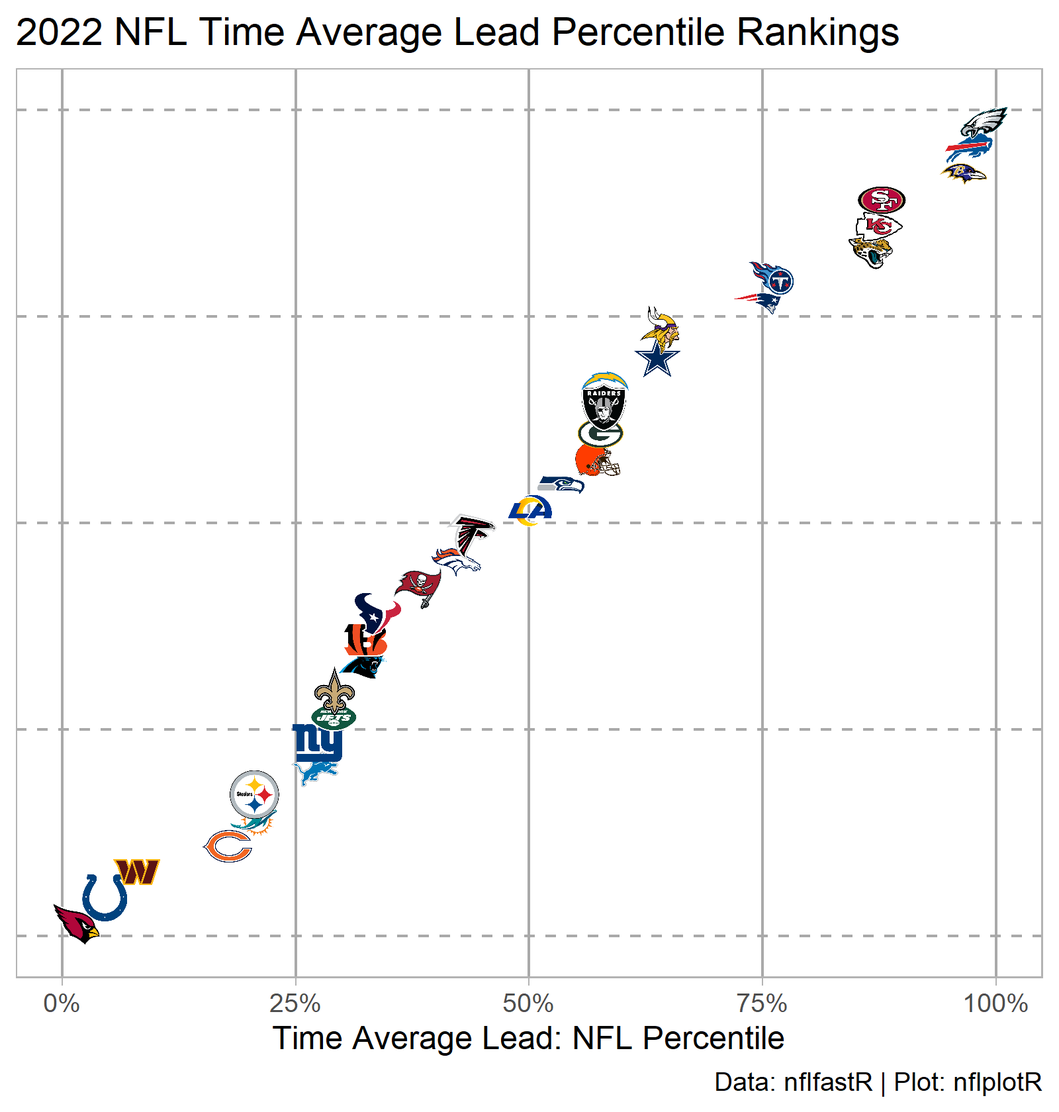
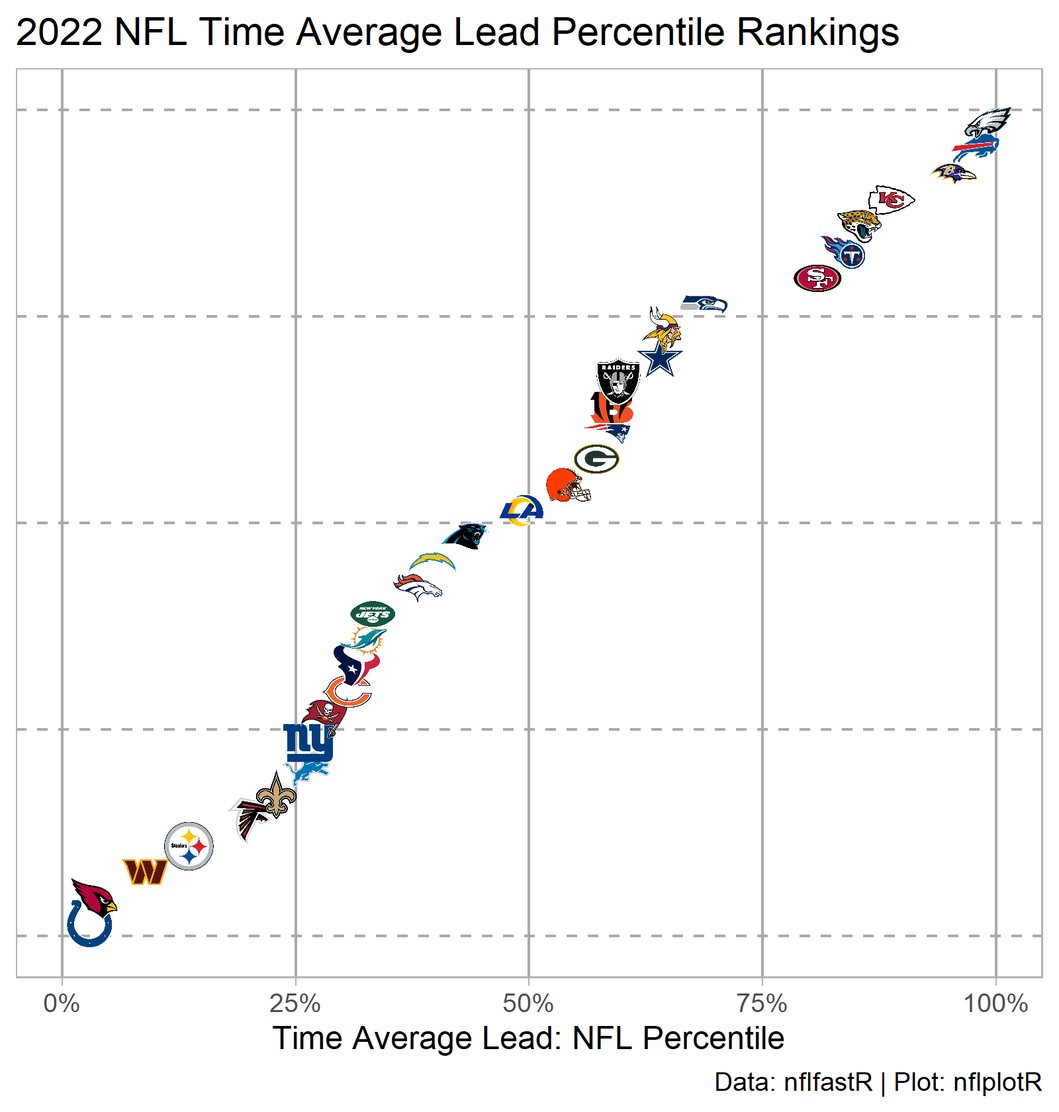
Week 7

Changed region(s): [[0.0312, 0.2476, 0.6875, 0.8667], [0.7188, 0.0929, 0.9688, 0.2786]]

diff --git a/docs/2022-nfl-team-metrics.html b/docs/2022-nfl-team-metrics.html
@@ -94,8 +94,8 @@ code span.wa { color: #5e5e5e; font-style: italic; } /* Warning */
 
 
   <!--  https://schema.org/Article -->
-  <meta property="article:published" itemprop="datePublished" content="2022-10-18"/>
-  <meta property="article:created" itemprop="dateCreated" content="2022-10-18"/>
+  <meta property="article:published" itemprop="datePublished" content="2022-10-25"/>
+  <meta property="article:created" itemprop="dateCreated" content="2022-10-25"/>
   <meta name="article:author" content="Casey Caprini"/>
 
   <!--  https://developers.facebook.com/docs/sharing/webmasters#markup -->
@@ -114,7 +114,7 @@ code span.wa { color: #5e5e5e; font-style: italic; } /* Warning */
   <!--radix_placeholder_rmarkdown_metadata-->
 
   <script type="text/json" id="radix-rmarkdown-metadata">
-  {"type":"list","attributes":{"names":{"type":"character","attributes":{},"value":["title","description","author","date","output"]}},"value":[{"type":"character","attributes":{},"value":["2022 NFL Team Metrics"]},{"type":"character","attributes":{},"value":["Team time average metrics for the 2021 regular season.\n"]},{"type":"list","attributes":{},"value":[{"type":"list","attributes":{"names":{"type":"character","attributes":{},"value":["name"]}},"value":[{"type":"character","attributes":{},"value":["Casey Caprini"]}]}]},{"type":"character","attributes":{},"value":["10-18-2022"]},{"type":"list","attributes":{"names":{"type":"character","attributes":{},"value":["distill::distill_article"]}},"value":[{"type":"list","attributes":{"names":{"type":"character","attributes":{},"value":["self_contained","code_folding"]}},"value":[{"type":"logical","attributes":{},"value":[false]},{"type":"logical","attributes":{},"value":[true]}]}]}]}
+  {"type":"list","attributes":{"names":{"type":"character","attributes":{},"value":["title","description","author","date","output"]}},"value":[{"type":"character","attributes":{},"value":["2022 NFL Team Metrics"]},{"type":"character","attributes":{},"value":["Team time average metrics for the 2021 regular season.\n"]},{"type":"list","attributes":{},"value":[{"type":"list","attributes":{"names":{"type":"character","attributes":{},"value":["name"]}},"value":[{"type":"character","attributes":{},"value":["Casey Caprini"]}]}]},{"type":"character","attributes":{},"value":["10-25-2022"]},{"type":"list","attributes":{"names":{"type":"character","attributes":{},"value":["distill::distill_article"]}},"value":[{"type":"list","attributes":{"names":{"type":"character","attributes":{},"value":["self_contained","code_folding"]}},"value":[{"type":"logical","attributes":{},"value":[false]},{"type":"logical","attributes":{},"value":[true]}]}]}]}
   </script>
   <!--/radix_placeholder_rmarkdown_metadata-->
   <!--radix_placeholder_navigation_in_header-->
@@ -2408,7 +2408,7 @@ code span.wa { color: #5e5e5e; font-style: italic; } /* Warning */
 <!--radix_placeholder_front_matter-->
 
 <script id="distill-front-matter" type="text/json">
-{"title":"2022 NFL Team Metrics","description":"Team time average metrics for the 2021 regular season.","authors":[{"author":"Casey Caprini","authorURL":"#","affiliation":"&nbsp;","affiliationURL":"#","orcidID":""}],"publishedDate":"2022-10-18T00:00:00.000-04:00","citationText":"Caprini, 2022"}
+{"title":"2022 NFL Team Metrics","description":"Team time average metrics for the 2021 regular season.","authors":[{"author":"Casey Caprini","authorURL":"#","affiliation":"&nbsp;","affiliationURL":"#","orcidID":""}],"publishedDate":"2022-10-25T00:00:00.000-04:00","citationText":"Caprini, 2022"}
 </script>
 
 <!--/radix_placeholder_front_matter-->
@@ -2441,7 +2441,7 @@ code span.wa { color: #5e5e5e; font-style: italic; } /* Warning */
 <div class="d-byline">
   Casey Caprini  
   
-<br/>10-18-2022
+<br/>10-25-2022
 </div>
 
 <div class="d-article">
@@ -2753,8 +2753,8 @@ Show code
 <span>  <span class='op'>)</span></span></code></pre>
 </div>
 </details>
-<div id="htmlwidget-b88a31df3ebafcfb2753" class="reactable html-widget" style="width:auto;height:675px;"></div>
-<script type="application/json" data-for="htmlwidget-b88a31df3ebafcfb2753">{"x":{"tag":{"name":"Reactable","attribs":{"data":{"team_logo_espn":["https://a.espncdn.com/i/teamlogos/nfl/500/ari.png","https://a.espncdn.com/i/teamlogos/nfl/500/atl.png","https://a.espncdn.com/i/teamlogos/nfl/500/bal.png","https://a.espncdn.com/i/teamlogos/nfl/500/buf.png","https://a.espncdn.com/i/teamlogos/nfl/500-dark/car.png","https://a.espncdn.com/i/teamlogos/nfl/500/chi.png","https://a.espncdn.com/i/teamlogos/nfl/500/cin.png","https://a.espncdn.com/i/teamlogos/nfl/500/cle.png","https://a.espncdn.com/i/teamlogos/nfl/500/dal.png","https://a.espncdn.com/i/teamlogos/nfl/500/den.png","https://a.espncdn.com/i/teamlogos/nfl/500/det.png","https://a.espncdn.com/i/teamlogos/nfl/500/gb.png","https://a.espncdn.com/i/teamlogos/nfl/500/hou.png","https://a.espncdn.com/i/teamlogos/nfl/500/ind.png","https://a.espncdn.com/i/teamlogos/nfl/500/jax.png","https://a.espncdn.com/i/teamlogos/nfl/500/kc.png","https://a.espncdn.com/i/teamlogos/nfl/500/lar.png","https://a.espncdn.com/i/teamlogos/nfl/500/lac.png","https://a.espncdn.com/i/teamlogos/nfl/500/lv.png","https://a.espncdn.com/i/teamlogos/nfl/500/mia.png","https://a.espncdn.com/i/teamlogos/nfl/500/min.png","https://a.espncdn.com/i/teamlogos/nfl/500/ne.png","https://a.espncdn.com/i/teamlogos/nfl/500/no.png","https://a.espncdn.com/i/teamlogos/nfl/500/nyg.png","https://a.espncdn.com/i/teamlogos/nfl/500/nyj.png","https://a.espncdn.com/i/teamlogos/nfl/500/phi.png","https://a.espncdn.com/i/teamlogos/nfl/500/pit.png","https://a.espncdn.com/i/teamlogos/nfl/500/sea.png","https://a.espncdn.com/i/teamlogos/nfl/500/sf.png","https://a.espncdn.com/i/teamlogos/nfl/500/tb.png","https://a.espncdn.com/i/teamlogos/nfl/500/ten.png","https://a.espncdn.com/i/teamlogos/nfl/500/wsh.png"],"team":["ARI","ATL","BAL","BUF","CAR","CHI","CIN","CLE","DAL","DEN","DET","GB","HOU","IND","JAX","KC","LA","LAC","LV","MIA","MIN","NE","NO","NYG","NYJ","PHI","PIT","SEA","SF","TB","TEN","WAS"],"time_avg_lead":[-7.49666666666667,-0.534953703703704,6.09833333333333,6.37462962962963,-1.5799537037037,-3.16944444444444,-1.55953703703704,0.622546296296296,1.18481481481481,-0.679953703703704,-2.09066666666667,0.644583333333333,-1.43683333333333,-5.76740740740741,3.74231481481481,3.89912037037037,-0.00310185185185189,0.689768518518519,0.674444444444444,-2.80939814814815,1.20680555555556,2.22083333333333,-1.87736111111111,-2.06162037037037,-1.88587962962963,7.56726851851852,-2.80476851851852,0.281759259259259,3.93962962962963,-1.03976851851852,2.36983333333333,-4.79990740740741],"time_avg_wins":[0.983425660274824,3.07805661588675,5.01019460738457,4.08287365638769,2.42329244030174,1.897447341868,2.29376023307952,3.35068657202917,3.47336424535358,2.72204148097536,2.04513063989949,3.30968645096446,2.29793727017481,1.2751656707469,3.83891117154527,3.63150244955651,2.81292545219117,3.15282217031577,2.65660111352969,2.00165325189352,3.55654145587813,3.51212749244543,2.45227050877059,2.25746834967722,2.6239476090353,5.08525532886004,2.67035418729405,3.27143054498497,4.20241896488932,2.74978093984036,3.39936356287141,1.88156256109439],"off_yards_per_snap":[4.49555555555556,5.33064516129032,5.74798927613941,6.5121359223301,4.55357142857143,5.01146131805158,4.87410926365796,5.37122969837587,4.77513227513228,4.93120393120393,5.8757225433526,5.28855721393035,4.7515923566879,4.63288288288288,5.41,5.58292682926829,4.53196930946292,5.18036529680365,5.45882352941176,5.73711340206186,5.2531328320802,5.5511811023622,5.50122249388753,4.75628140703518,4.81294964028777,5.27088036117382,4.45714285714286,5.78532608695652,5.22857142857143,4.78398058252427,4.47176079734219,4.56440281030445],"off_adj_yards_per_snap":[5.03641442288812,5.17415687439272,5.23275709119525,5.33792016008724,5.07053709679297,5.12496068893275,5.101224015627,5.1759975995721,5.10146708136685,5.10859809240911,5.23168665402623,5.17048327051588,5.10332443803178,5.06134482187729,5.17840268700078,5.22288592759745,5.07662579775351,5.15282831577645,5.1833963110451,5.23221104608063,5.15159250742379,5.1858527142864,5.19722718912674,5.09221549883066,5.08328735036059,5.15858999686971,5.05843615613662,5.23155240537492,5.15562219443854,5.0878519648717,5.06853238943821,5.05612898629757],"def_yards_per_snap":[5.33246073298429,5.57635467980296,5.41707317073171,4.22739018087855,4.8445475638051,5.09452736318408,4.98024691358025,5.60526315789474,4.16587677725119,4.1627358490566,6.07670454545455,5.00862068965517,5.53439153439153,5.00757575757576,5.00738916256158,5.34398034398034,5.03399433427762,5.59090909090909,5.14583333333333,5.88654353562005,5.49376558603491,5.25322997416021,5.47792207792208,5.25196850393701,4.95226130653266,4.56488549618321,5.26576576576577,5.93867924528302,4.0234375,4.27053140096618,5.76488095238095,5.52487562189055],"def_adj_yards_per_snap":[5.19367104605175,5.27581284131356,5.22194357262035,4.86707835695216,5.05336486573085,5.13450553144424,5.09056710633284,5.28778596164591,4.84616336020412,4.82847919111673,5.40404195686946,5.11233078967631,5.26656122797394,5.10199397970672,5.11513484293404,5.20564296512075,5.11317884804525,5.27016162364199,5.15187459379761,5.34934747557627,5.2377818036964,5.16494360176116,5.24662508012287,5.18082059375922,5.07979780537171,4.97396044796619,5.18205808646525,5.3973786260501,4.81343913023311,4.86359952440717,5.31179867319931,5.26226823663734],"yards_per_snap_diff":[-0.836905177428737,-0.245709518512633,0.330916105407703,2.28474574145154,-0.290976135233675,-0.0830660451325036,-0.10613764992229,-0.234033459518867,0.60925549788109,0.768468082147327,-0.200982002101945,0.279936524275175,-0.782799177703636,-0.374692874692875,0.402610837438424,0.238946485287949,-0.502025024814705,-0.410543794105438,0.312990196078432,-0.149430133558197,-0.240632753954713,0.297951128201998,0.0233004159654522,-0.495687096901833,-0.139311666244893,0.705994864990609,-0.808622908622908,-0.153353158326498,1.20513392857143,0.513449181558088,-1.29312015503876,-0.960472811586098],"adj_yards_per_snap_diff":[-0.157256623163632,-0.101655966920837,0.0108135185749054,0.470841803135079,0.0171722310621147,-0.00954484251149079,0.0106569092941653,-0.111788362073806,0.255303721162726,0.280118901292374,-0.172355302843229,0.0581524808395653,-0.163236789942164,-0.0406491578294359,0.063267844066746,0.0172429624767041,-0.0365530502917366,-0.117333307865534,0.0315217172474922,-0.117136429495648,-0.0861892962726163,0.020909112525235,-0.0493978909961275,-0.0886050949285657,0.00348954498888343,0.184629548903524,-0.123621930328631,-0.165826220675178,0.342183064205432,0.22425244046453,-0.243266283761101,-0.206139250339771]},"columns":[{"accessor":"team_logo_espn","name":" ","type":"character","format":{"cell":{"digits":1},"aggregated":{"digits":1}},"align":"center","sortable":false,"cell":[{"name":"Fragment","attribs":[],"children":[{"name":"div","attribs":{"style":{"display":"flex","justifyContent":"center"}},"children":[{"name":"img","attribs":{"src":"https://a.espncdn.com/i/teamlogos/nfl/500/ari.png","align":"center","height":24,"width":24},"children":[]}]}]},{"name":"Fragment","attribs":[],"children":[{"name":"div","attribs":{"style":{"display":"flex","justifyContent":"center"}},"children":[{"name":"img","attribs":{"src":"https://a.espncdn.com/i/teamlogos/nfl/500/atl.png","align":"center","height":24,"width":24},"children":[]}]}]},{"name":"Fragment","attribs":[],"children":[{"name":"div","attribs":{"style":{"display":"flex","justifyContent":"center"}},"children":[{"name":"img","attribs":{"src":"https://a.espncdn.com/i/teamlogos/nfl/500/bal.png","align":"center","height":24,"width":24},"children":[]}]}]},{"name":"Fragment","attribs":[],"children":[{"name":"div","attribs":{"style":{"display":"flex","justifyContent":"center"}},"children":[{"name":"img","attribs":{"src":"https://a.espncdn.com/i/teamlogos/nfl/500/buf.png","align":"center","height":24,"width":24},"children":[]}]}]},{"name":"Fragment","attribs":[],"children":[{"name":"div","attribs":{"style":{"display":"flex","justifyContent":"center"}},"children":[{"name":"img","attribs":{"src":"https://a.espncdn.com/i/teamlogos/nfl/500-dark/car.png","align":"center","height":24,"width":24},"children":[]}]}]},{"name":"Fragment","attribs":[],"children":[{"name":"div","attribs":{"style":{"display":"flex","justifyContent":"center"}},"children":[{"name":"img","attribs":{"src":"https://a.espncdn.com/i/teamlogos/nfl/500/chi.png","align":"center","height":24,"width":24},"children":[]}]}]},{"name":"Fragment","attribs":[],"children":[{"name":"div","attribs":{"style":{"display":"flex","justifyContent":"center"}},"children":[{"name":"img","attribs":{"src":"https://a.espncdn.com/i/teamlogos/nfl/500/cin.png","align":"center","height":24,"width":24},"children":[]}]}]},{"name":"Fragment","attribs":[],"children":[{"name":"div","attribs":{"style":{"display":"flex","justifyContent":"center"}},"children":[{"name":"img","attribs":{"src":"https://a.espncdn.com/i/teamlogos/nfl/500/cle.png","align":"center","height":24,"width":24},"children":[]}]}]},{"name":"Fragment","attribs":[],"children":[{"name":"div","attribs":{"style":{"display":"flex","justifyContent":"center"}},"children":[{"name":"img","attribs":{"src":"https://a.espncdn.com/i/teamlogos/nfl/500/dal.png","align":"center","height":24,"width":24},"children":[]}]}]},{"name":"Fragment","attribs":[],"children":[{"name":"div","attribs":{"style":{"display":"flex","justifyContent":"center"}},"children":[{"name":"img","attribs":{"src":"https://a.espncdn.com/i/teamlogos/nfl/500/den.png","align":"center","height":24,"width":24},"children":[]}]}]},{"name":"Fragment","attribs":[],"children":[{"name":"div","attribs":{"style":{"display":"flex","justifyContent":"center"}},"children":[{"name":"img","attribs":{"src":"https://a.espncdn.com/i/teamlogos/nfl/500/det.png","align":"center","height":24,"width":24},"children":[]}]}]},{"name":"Fragment","attribs":[],"children":[{"name":"div","attribs":{"style":{"display":"flex","justifyContent":"center"}},"children":[{"name":"img","attribs":{"src":"https://a.espncdn.com/i/teamlogos/nfl/500/gb.png","align":"center","height":24,"width":24},"children":[]}]}]},{"name":"Fragment","attribs":[],"children":[{"name":"div","attribs":{"style":{"display":"flex","justifyContent":"center"}},"children":[{"name":"img","attribs":{"src":"https://a.espncdn.com/i/teamlogos/nfl/500/hou.png","align":"center","height":24,"width":24},"children":[]}]}]},{"name":"Fragment","attribs":[],"children":[{"name":"div","attribs":{"style":{"display":"flex","justifyContent":"center"}},"children":[{"name":"img","attribs":{"src":"https://a.espncdn.com/i/teamlogos/nfl/500/ind.png","align":"center","height":24,"width":24},"children":[]}]}]},{"name":"Fragment","attribs":[],"children":[{"name":"div","attribs":{"style":{"display":"flex","justifyContent":"center"}},"children":[{"name":"img","attribs":{"src":"https://a.espncdn.com/i/teamlogos/nfl/500/jax.png","align":"center","height":24,"width":24},"children":[]}]}]},{"name":"Fragment","attribs":[],"children":[{"name":"div","attribs":{"style":{"display":"flex","justifyContent":"center"}},"children":[{"name":"img","attribs":{"src":"https://a.espncdn.com/i/teamlogos/nfl/500/kc.png","align":"center","height":24,"width":24},"children":[]}]}]},{"name":"Fragment","attribs":[],"children":[{"name":"div","attribs":{"style":{"display":"flex","justifyContent":"center"}},"children":[{"name":"img","attribs":{"src":"https://a.espncdn.com/i/teamlogos/nfl/500/lar.png","align":"center","height":24,"width":24},"children":[]}]}]},{"name":"Fragment","attribs":[],"children":[{"name":"div","attribs":{"style":{"display":"flex","justifyContent":"center"}},"children":[{"name":"img","attribs":{"src":"https://a.espncdn.com/i/teamlogos/nfl/500/lac.png","align":"center","height":24,"width":24},"children":[]}]}]},{"name":"Fragment","attribs":[],"children":[{"name":"div","attribs":{"style":{"display":"flex","justifyContent":"center"}},"children":[{"name":"img","attribs":{"src":"https://a.espncdn.com/i/teamlogos/nfl/500/lv.png","align":"center","height":24,"width":24},"children":[]}]}]},{"name":"Fragment","attribs":[],"children":[{"name":"div","attribs":{"style":{"display":"flex","justifyContent":"center"}},"children":[{"name":"img","attribs":{"src":"https://a.espncdn.com/i/teamlogos/nfl/500/mia.png","align":"center","height":24,"width":24},"children":[]}]}]},{"name":"Fragment","attribs":[],"children":[{"name":"div","attribs":{"style":{"display":"flex","justifyContent":"center"}},"children":[{"name":"img","attribs":{"src":"https://a.espncdn.com/i/teamlogos/nfl/500/min.png","align":"center","height":24,"width":24},"children":[]}]}]},{"name":"Fragment","attribs":[],"children":[{"name":"div","attribs":{"style":{"display":"flex","justifyContent":"center"}},"children":[{"name":"img","attribs":{"src":"https://a.espncdn.com/i/teamlogos/nfl/500/ne.png","align":"center","height":24,"width":24},"children":[]}]}]},{"name":"Fragment","attribs":[],"children":[{"name":"div","attribs":{"style":{"display":"flex","justifyContent":"center"}},"children":[{"name":"img","attribs":{"src":"https://a.espncdn.com/i/teamlogos/nfl/500/no.png","align":"center","height":24,"width":24},"children":[]}]}]},{"name":"Fragment","attribs":[],"children":[{"name":"div","attribs":{"style":{"display":"flex","justifyContent":"center"}},"children":[{"name":"img","attribs":{"src":"https://a.espncdn.com/i/teamlogos/nfl/500/nyg.png","align":"center","height":24,"width":24},"children":[]}]}]},{"name":"Fragment","attribs":[],"children":[{"name":"div","attribs":{"style":{"display":"flex","justifyContent":"center"}},"children":[{"name":"img","attribs":{"src":"https://a.espncdn.com/i/teamlogos/nfl/500/nyj.png","align":"center","height":24,"width":24},"children":[]}]}]},{"name":"Fragment","attribs":[],"children":[{"name":"div","attribs":{"style":{"display":"flex","justifyContent":"center"}},"children":[{"name":"img","attribs":{"src":"https://a.espncdn.com/i/teamlogos/nfl/500/phi.png","align":"center","height":24,"width":24},"children":[]}]}]},{"name":"Fragment","attribs":[],"children":[{"name":"div","attribs":{"style":{"display":"flex","justifyContent":"center"}},"children":[{"name":"img","attribs":{"src":"https://a.espncdn.com/i/teamlogos/nfl/500/pit.png","align":"center","height":24,"width":24},"children":[]}]}]},{"name":"Fragment","attribs":[],"children":[{"name":"div","attribs":{"style":{"display":"flex","justifyContent":"center"}},"children":[{"name":"img","attribs":{"src":"https://a.espncdn.com/i/teamlogos/nfl/500/sea.png","align":"center","height":24,"width":24},"children":[]}]}]},{"name":"Fragment","attribs":[],"children":[{"name":"div","attribs":{"style":{"display":"flex","justifyContent":"center"}},"children":[{"name":"img","attribs":{"src":"https://a.espncdn.com/i/teamlogos/nfl/500/sf.png","align":"center","height":24,"width":24},"children":[]}]}]},{"name":"Fragment","attribs":[],"children":[{"name":"div","attribs":{"style":{"display":"flex","justifyContent":"center"}},"children":[{"name":"img","attribs":{"src":"https://a.espncdn.com/i/teamlogos/nfl/500/tb.png","align":"center","height":24,"width":24},"children":[]}]}]},{"name":"Fragment","attribs":[],"children":[{"name":"div","attribs":{"style":{"display":"flex","justifyContent":"center"}},"children":[{"name":"img","attribs":{"src":"https://a.espncdn.com/i/teamlogos/nfl/500/ten.png","align":"center","height":24,"width":24},"children":[]}]}]},{"name":"Fragment","attribs":[],"children":[{"name":"div","attribs":{"style":{"display":"flex","justifyContent":"center"}},"children":[{"name":"img","attribs":{"src":"https://a.espncdn.com/i/teamlogos/nfl/500/wsh.png","align":"center","height":24,"width":24},"children":[]}]}]}],"width":40,"style":{"position":"sticky","left":0,"background":"#fff","zIndex":1}},{"accessor":"team","name":"Team","type":"character","format":{"cell":{"digits":1},"aggregated":{"digits":1}},"align":"center","width":60,"style":{"position":"sticky","left":40,"background":"#fff","zIndex":1}},{"accessor":"time_avg_lead","name":"Time Average Lead","type":"numeric","format":{"cell":{"digits":1},"aggregated":{"digits":1}},"align":"center"},{"accessor":"time_avg_wins","name":"Expected Wins","type":"numeric","format":{"cell":{"digits":1},"aggregated":{"digits":1}},"align":"center"},{"accessor":"off_yards_per_snap","name":"Yards/Snap","type":"numeric","format":{"cell":{"digits":1},"aggregated":{"digits":1}},"align":"center"},{"accessor":"off_adj_yards_per_snap","name":"Adj Yards/Snap","type":"numeric","format":{"cell":{"digits":1},"aggregated":{"digits":1}},"align":"center"},{"accessor":"def_yards_per_snap","name":"Yards/Snap","type":"numeric","format":{"cell":{"digits":1},"aggregated":{"digits":1}},"align":"center"},{"accessor":"def_adj_yards_per_snap","name":"Adj Yards/Snap","type":"numeric","format":{"cell":{"digits":1},"aggregated":{"digits":1}},"align":"center"},{"accessor":"yards_per_snap_diff","name":"Yards/Snap Diff","type":"numeric","format":{"cell":{"digits":2},"aggregated":{"digits":2}},"align":"center"},{"accessor":"adj_yards_per_snap_diff","name":"Adj Yards/Snap Diff","type":"numeric","format":{"cell":{"digits":2},"aggregated":{"digits":2}},"align":"center"}],"columnGroups":[{"name":"Time Average Stats","columns":["time_avg_lead","time_avg_wins"]},{"name":"Offense","columns":["off_yards_per_snap","off_adj_yards_per_snap"]},{"name":"Defense","columns":["def_yards_per_snap","def_adj_yards_per_snap"]},{"name":"Differential","columns":["yards_per_snap_diff","adj_yards_per_snap_diff"]}],"defaultSortDesc":true,"defaultSorted":[{"id":"time_avg_lead","desc":true}],"pagination":false,"defaultPageSize":10,"paginationType":"numbers","showPageInfo":true,"minRows":1,"highlight":true,"bordered":true,"height":"675px","theme":{"color":"#878e94","backgroundColor":"#ffffff","borderWidth":"0px","stripedColor":"#f9f9fb","highlightColor":"#f1f3f4","cellPadding":4,"tableStyle":{"fontSize":16},"headerStyle":{"borderWidth":"1px","padding":"7px","borderTop":"1px solid #595d63","backgroundColor":"#595d63","textTransform":"uppercase","borderColor":"#595d63","color":"#ffffff","transitionDuration":"0.1s","&:hover[aria-sort]":{"backgroundColor":"#4d5056","color":"#ffffff"},"&[aria-sort='ascending']":{"backgroundColor":"#393c40","color":"#ffffff","boxShadow":"inset 0 3px 0 0 #ffffff"},"&[aria-sort='descending']":{"backgroundColor":"#393c40","color":"#ffffff","boxShadow":"inset 0 -3px 0 0 #ffffff"},"fontSize":12,"fontWeight":"bold"},"groupHeaderStyle":{"&:not(:empty)":{"backgroundColor":"#e4e8ed","textTransform":"uppercase","fontWeight":"bold","color":"#878e94","fontSize":12,"boxShadow":"inset 3px 0 0 0 #ffffff"}},"rowSelectedStyle":{"backgroundColor":"#e4e8ed"},"inputStyle":{"backgroundColor":"#ffffff","color":"#878e94"},"searchInputStyle":{"fontSize":"14px","textTransform":"uppercase","backgroundColor":"#ffffff","color":"#878e94","&:focus":{"color":"#878e94"}},"selectStyle":{"backgroundColor":"#073c57","color":"#ffffff","borderColor":"#ffffff","outlineColor":"#ffffff"},"paginationStyle":{"textTransform":"uppercase","fontSize":"15px"},"pageButtonStyle":{"textTransform":"uppercase","fontSize":"15px","backgroundColor":"#ffffff","color":"#164861","&:hover":{"backgroundColor":"#052c3f","color":"#ffffff"}},"pageButtonHoverStyle":{"backgroundColor":"#052c3f","color":"#ffffff"},"pageButtonActiveStyle":{"backgroundColor":"#073c57","color":"#ffffff"},"pageButtonCurrentStyle":{"backgroundColor":"#073c57","color":"#ffffff"}},"dataKey":"c57fe61e443d3cd6e54c922af6abf711"},"children":[]},"class":"reactR_markup"},"evals":[],"jsHooks":[]}</script>
+<div id="htmlwidget-7292abbe2bfd8d4f60d1" class="reactable html-widget" style="width:auto;height:675px;"></div>
+<script type="application/json" data-for="htmlwidget-7292abbe2bfd8d4f60d1">{"x":{"tag":{"name":"Reactable","attribs":{"data":{"team_logo_espn":["https://a.espncdn.com/i/teamlogos/nfl/500/ari.png","https://a.espncdn.com/i/teamlogos/nfl/500/atl.png","https://a.espncdn.com/i/teamlogos/nfl/500/bal.png","https://a.espncdn.com/i/teamlogos/nfl/500/buf.png","https://a.espncdn.com/i/teamlogos/nfl/500-dark/car.png","https://a.espncdn.com/i/teamlogos/nfl/500/chi.png","https://a.espncdn.com/i/teamlogos/nfl/500/cin.png","https://a.espncdn.com/i/teamlogos/nfl/500/cle.png","https://a.espncdn.com/i/teamlogos/nfl/500/dal.png","https://a.espncdn.com/i/teamlogos/nfl/500/den.png","https://a.espncdn.com/i/teamlogos/nfl/500/det.png","https://a.espncdn.com/i/teamlogos/nfl/500/gb.png","https://a.espncdn.com/i/teamlogos/nfl/500/hou.png","https://a.espncdn.com/i/teamlogos/nfl/500/ind.png","https://a.espncdn.com/i/teamlogos/nfl/500/jax.png","https://a.espncdn.com/i/teamlogos/nfl/500/kc.png","https://a.espncdn.com/i/teamlogos/nfl/500/lar.png","https://a.espncdn.com/i/teamlogos/nfl/500/lac.png","https://a.espncdn.com/i/teamlogos/nfl/500/lv.png","https://a.espncdn.com/i/teamlogos/nfl/500/mia.png","https://a.espncdn.com/i/teamlogos/nfl/500/min.png","https://a.espncdn.com/i/teamlogos/nfl/500/ne.png","https://a.espncdn.com/i/teamlogos/nfl/500/no.png","https://a.espncdn.com/i/teamlogos/nfl/500/nyg.png","https://a.espncdn.com/i/teamlogos/nfl/500/nyj.png","https://a.espncdn.com/i/teamlogos/nfl/500/phi.png","https://a.espncdn.com/i/teamlogos/nfl/500/pit.png","https://a.espncdn.com/i/teamlogos/nfl/500/sea.png","https://a.espncdn.com/i/teamlogos/nfl/500/sf.png","https://a.espncdn.com/i/teamlogos/nfl/500/tb.png","https://a.espncdn.com/i/teamlogos/nfl/500/ten.png","https://a.espncdn.com/i/teamlogos/nfl/500/wsh.png"],"team":["ARI","ATL","BAL","BUF","CAR","CHI","CIN","CLE","DAL","DEN","DET","GB","HOU","IND","JAX","KC","LA","LAC","LV","MIA","MIN","NE","NO","NYG","NYJ","PHI","PIT","SEA","SF","TB","TEN","WAS"],"time_avg_lead":[-5.7525,-2.55674603174603,5.36206349206349,6.37462962962963,-0.477896825396825,-1.54400793650794,0.761468253968254,0.398690476190476,1.19956349206349,-0.894642857142857,-1.95689814814815,0.636507936507936,-1.4600462962963,-5.93492063492064,3.38,3.90277777777778,-0.00310185185185189,-0.766111111111111,0.824722222222222,-1.39206349206349,1.20680555555556,0.730912698412699,-2.28238095238095,-1.93940476190476,-1.30464285714286,7.56726851851852,-3.42007936507936,1.59884920634921,2.81615079365079,-1.76757936507936,3.13152777777778,-4.19821428571429],"time_avg_wins":[1.7950921275503,3.08848103602592,5.58287064989552,4.08287365638769,3.29337373944546,2.82466192782038,3.28333581294035,3.77801052951822,4.07188304384852,3.05904839591423,2.44661184140455,3.85513496304744,2.67816200665367,1.37936614160907,4.43131084880665,4.40297837259093,2.81292545219117,3.20277509144818,3.27637637705083,2.90232427957428,3.55654145587813,3.58491290649305,2.64060404149511,2.66506867241584,3.28694069409643,5.08525532886004,2.76968315961329,4.22147762385256,4.43094304185489,2.87969964069664,4.29516309200924,2.33611404901141],"off_yards_per_snap":[4.55533980582524,5.25837320574163,5.51376146788991,6.5121359223301,4.87855297157623,5.06888361045131,5.26069246435845,5.39350912778905,4.84353741496599,4.81724845995893,5.72660098522168,5.20879120879121,4.97894736842105,4.60510805500982,5.46511627906977,5.95095948827292,4.53196930946292,5.08840864440079,5.67254408060453,5.71681415929203,5.2531328320802,5.45475638051044,5.66252587991718,4.91386554621849,4.70020964360587,5.27088036117382,4.40522875816993,5.8310502283105,5.20815450643777,4.73596673596674,4.47632311977716,4.60238568588469],"off_adj_yards_per_snap":[4.99500074628168,5.19383692049136,5.25974316887171,5.47926342411457,5.10580732737309,5.13923101651873,5.19128696895195,5.22411420500708,5.0904878096037,5.06977493335793,5.30200639480908,5.18292862838257,5.13322157306814,5.00830957591815,5.24120982889806,5.38661769474297,5.03876342553437,5.14441939101071,5.28213409189707,5.31315587783639,5.18348865454988,5.22839551871784,5.29761070308188,5.10972531732087,5.04702446037751,5.1886884187644,4.98250144739684,5.32471193136217,5.17899620485076,5.05354666830902,5.02508938902615,5.01805267584615],"def_yards_per_snap":[5.53070175438596,5.8718487394958,5.43008474576271,4.22739018087855,4.79,5.05309734513274,4.9490022172949,5.39503386004515,4.25311203319502,4.13223140495868,5.95180722891566,4.97405660377358,5.71954022988506,4.94713656387665,5.12603305785124,5.30532786885246,5.03399433427762,5.66666666666667,5.29601990049751,5.60044150110375,5.49376558603491,5.27015250544662,5.40444444444444,5.33039647577093,4.8326359832636,4.56488549618321,5.30708661417323,5.73535353535354,4.62076749435666,4.57204301075269,5.54613466334165,5.41538461538462],"def_adj_yards_per_snap":[5.2306675101843,5.32254681558207,5.21576389003031,4.99292375735859,5.0905309505508,5.14880876014678,5.12208895835956,5.22359944531455,4.97283369952612,4.9384420769609,5.32563875157722,5.14212132621947,5.29081190171876,5.12272912178157,5.17783274591843,5.20084681796608,5.14613927953841,5.25991524329326,5.20235682067084,5.2531845827336,5.21800292536942,5.18458571571616,5.22453756265174,5.20803143260741,5.09354542692507,5.06093878561386,5.19290072318359,5.29962792411871,5.05416896952981,5.03460213602499,5.24523934570773,5.22318098939266],"yards_per_snap_diff":[-0.975361948560722,-0.613475533754171,0.0836767221271959,2.28474574145154,0.0885529715762274,0.015786265318563,0.311690247063551,-0.00152473225610006,0.590425381770966,0.685017055000255,-0.225206243693988,0.234734605017624,-0.740592861464004,-0.342028508866829,0.339083221218528,0.645631619420461,-0.502025024814705,-0.578258022265882,0.376524180107022,0.116372658188282,-0.240632753954713,0.184603875063818,0.258081435472739,-0.416530929552438,-0.132426339657728,0.705994864990609,-0.901857856003294,0.0956966929569667,0.587387012081109,0.163923725214048,-1.06981154356449,-0.812998929499924],"adj_yards_per_snap_diff":[-0.235666763902624,-0.128709895090716,0.0439792788413982,0.48633966675598,0.0152763768222952,-0.00957774362804553,0.0691980105923973,0.000514759692525679,0.117654110077578,0.131332856397036,-0.0236323567681396,0.040807302163099,-0.157590328650613,-0.114419545863424,0.063377082979633,0.18577087677689,-0.107375854004037,-0.115495852282548,0.0797772712262326,0.0599712951027866,-0.0345142708195398,0.0438098030016718,0.0730731404301448,-0.0983061152865403,-0.0465209665475612,0.127749633150544,-0.210399275786744,0.0250840072434677,0.124827235320951,0.0189445322840278,-0.220149956681578,-0.205128313546508]},"columns":[{"accessor":"team_logo_espn","name":" ","type":"character","format":{"cell":{"digits":1},"aggregated":{"digits":1}},"align":"center","sortable":false,"cell":[{"name":"Fragment","attribs":[],"children":[{"name":"div","attribs":{"style":{"display":"flex","justifyContent":"center"}},"children":[{"name":"img","attribs":{"src":"https://a.espncdn.com/i/teamlogos/nfl/500/ari.png","align":"center","height":24,"width":24},"children":[]}]}]},{"name":"Fragment","attribs":[],"children":[{"name":"div","attribs":{"style":{"display":"flex","justifyContent":"center"}},"children":[{"name":"img","attribs":{"src":"https://a.espncdn.com/i/teamlogos/nfl/500/atl.png","align":"center","height":24,"width":24},"children":[]}]}]},{"name":"Fragment","attribs":[],"children":[{"name":"div","attribs":{"style":{"display":"flex","justifyContent":"center"}},"children":[{"name":"img","attribs":{"src":"https://a.espncdn.com/i/teamlogos/nfl/500/bal.png","align":"center","height":24,"width":24},"children":[]}]}]},{"name":"Fragment","attribs":[],"children":[{"name":"div","attribs":{"style":{"display":"flex","justifyContent":"center"}},"children":[{"name":"img","attribs":{"src":"https://a.espncdn.com/i/teamlogos/nfl/500/buf.png","align":"center","height":24,"width":24},"children":[]}]}]},{"name":"Fragment","attribs":[],"children":[{"name":"div","attribs":{"style":{"display":"flex","justifyContent":"center"}},"children":[{"name":"img","attribs":{"src":"https://a.espncdn.com/i/teamlogos/nfl/500-dark/car.png","align":"center","height":24,"width":24},"children":[]}]}]},{"name":"Fragment","attribs":[],"children":[{"name":"div","attribs":{"style":{"display":"flex","justifyContent":"center"}},"children":[{"name":"img","attribs":{"src":"https://a.espncdn.com/i/teamlogos/nfl/500/chi.png","align":"center","height":24,"width":24},"children":[]}]}]},{"name":"Fragment","attribs":[],"children":[{"name":"div","attribs":{"style":{"display":"flex","justifyContent":"center"}},"children":[{"name":"img","attribs":{"src":"https://a.espncdn.com/i/teamlogos/nfl/500/cin.png","align":"center","height":24,"width":24},"children":[]}]}]},{"name":"Fragment","attribs":[],"children":[{"name":"div","attribs":{"style":{"display":"flex","justifyContent":"center"}},"children":[{"name":"img","attribs":{"src":"https://a.espncdn.com/i/teamlogos/nfl/500/cle.png","align":"center","height":24,"width":24},"children":[]}]}]},{"name":"Fragment","attribs":[],"children":[{"name":"div","attribs":{"style":{"display":"flex","justifyContent":"center"}},"children":[{"name":"img","attribs":{"src":"https://a.espncdn.com/i/teamlogos/nfl/500/dal.png","align":"center","height":24,"width":24},"children":[]}]}]},{"name":"Fragment","attribs":[],"children":[{"name":"div","attribs":{"style":{"display":"flex","justifyContent":"center"}},"children":[{"name":"img","attribs":{"src":"https://a.espncdn.com/i/teamlogos/nfl/500/den.png","align":"center","height":24,"width":24},"children":[]}]}]},{"name":"Fragment","attribs":[],"children":[{"name":"div","attribs":{"style":{"display":"flex","justifyContent":"center"}},"children":[{"name":"img","attribs":{"src":"https://a.espncdn.com/i/teamlogos/nfl/500/det.png","align":"center","height":24,"width":24},"children":[]}]}]},{"name":"Fragment","attribs":[],"children":[{"name":"div","attribs":{"style":{"display":"flex","justifyContent":"center"}},"children":[{"name":"img","attribs":{"src":"https://a.espncdn.com/i/teamlogos/nfl/500/gb.png","align":"center","height":24,"width":24},"children":[]}]}]},{"name":"Fragment","attribs":[],"children":[{"name":"div","attribs":{"style":{"display":"flex","justifyContent":"center"}},"children":[{"name":"img","attribs":{"src":"https://a.espncdn.com/i/teamlogos/nfl/500/hou.png","align":"center","height":24,"width":24},"children":[]}]}]},{"name":"Fragment","attribs":[],"children":[{"name":"div","attribs":{"style":{"display":"flex","justifyContent":"center"}},"children":[{"name":"img","attribs":{"src":"https://a.espncdn.com/i/teamlogos/nfl/500/ind.png","align":"center","height":24,"width":24},"children":[]}]}]},{"name":"Fragment","attribs":[],"children":[{"name":"div","attribs":{"style":{"display":"flex","justifyContent":"center"}},"children":[{"name":"img","attribs":{"src":"https://a.espncdn.com/i/teamlogos/nfl/500/jax.png","align":"center","height":24,"width":24},"children":[]}]}]},{"name":"Fragment","attribs":[],"children":[{"name":"div","attribs":{"style":{"display":"flex","justifyContent":"center"}},"children":[{"name":"img","attribs":{"src":"https://a.espncdn.com/i/teamlogos/nfl/500/kc.png","align":"center","height":24,"width":24},"children":[]}]}]},{"name":"Fragment","attribs":[],"children":[{"name":"div","attribs":{"style":{"display":"flex","justifyContent":"center"}},"children":[{"name":"img","attribs":{"src":"https://a.espncdn.com/i/teamlogos/nfl/500/lar.png","align":"center","height":24,"width":24},"children":[]}]}]},{"name":"Fragment","attribs":[],"children":[{"name":"div","attribs":{"style":{"display":"flex","justifyContent":"center"}},"children":[{"name":"img","attribs":{"src":"https://a.espncdn.com/i/teamlogos/nfl/500/lac.png","align":"center","height":24,"width":24},"children":[]}]}]},{"name":"Fragment","attribs":[],"children":[{"name":"div","attribs":{"style":{"display":"flex","justifyContent":"center"}},"children":[{"name":"img","attribs":{"src":"https://a.espncdn.com/i/teamlogos/nfl/500/lv.png","align":"center","height":24,"width":24},"children":[]}]}]},{"name":"Fragment","attribs":[],"children":[{"name":"div","attribs":{"style":{"display":"flex","justifyContent":"center"}},"children":[{"name":"img","attribs":{"src":"https://a.espncdn.com/i/teamlogos/nfl/500/mia.png","align":"center","height":24,"width":24},"children":[]}]}]},{"name":"Fragment","attribs":[],"children":[{"name":"div","attribs":{"style":{"display":"flex","justifyContent":"center"}},"children":[{"name":"img","attribs":{"src":"https://a.espncdn.com/i/teamlogos/nfl/500/min.png","align":"center","height":24,"width":24},"children":[]}]}]},{"name":"Fragment","attribs":[],"children":[{"name":"div","attribs":{"style":{"display":"flex","justifyContent":"center"}},"children":[{"name":"img","attribs":{"src":"https://a.espncdn.com/i/teamlogos/nfl/500/ne.png","align":"center","height":24,"width":24},"children":[]}]}]},{"name":"Fragment","attribs":[],"children":[{"name":"div","attribs":{"style":{"display":"flex","justifyContent":"center"}},"children":[{"name":"img","attribs":{"src":"https://a.espncdn.com/i/teamlogos/nfl/500/no.png","align":"center","height":24,"width":24},"children":[]}]}]},{"name":"Fragment","attribs":[],"children":[{"name":"div","attribs":{"style":{"display":"flex","justifyContent":"center"}},"children":[{"name":"img","attribs":{"src":"https://a.espncdn.com/i/teamlogos/nfl/500/nyg.png","align":"center","height":24,"width":24},"children":[]}]}]},{"name":"Fragment","attribs":[],"children":[{"name":"div","attribs":{"style":{"display":"flex","justifyContent":"center"}},"children":[{"name":"img","attribs":{"src":"https://a.espncdn.com/i/teamlogos/nfl/500/nyj.png","align":"center","height":24,"width":24},"children":[]}]}]},{"name":"Fragment","attribs":[],"children":[{"name":"div","attribs":{"style":{"display":"flex","justifyContent":"center"}},"children":[{"name":"img","attribs":{"src":"https://a.espncdn.com/i/teamlogos/nfl/500/phi.png","align":"center","height":24,"width":24},"children":[]}]}]},{"name":"Fragment","attribs":[],"children":[{"name":"div","attribs":{"style":{"display":"flex","justifyContent":"center"}},"children":[{"name":"img","attribs":{"src":"https://a.espncdn.com/i/teamlogos/nfl/500/pit.png","align":"center","height":24,"width":24},"children":[]}]}]},{"name":"Fragment","attribs":[],"children":[{"name":"div","attribs":{"style":{"display":"flex","justifyContent":"center"}},"children":[{"name":"img","attribs":{"src":"https://a.espncdn.com/i/teamlogos/nfl/500/sea.png","align":"center","height":24,"width":24},"children":[]}]}]},{"name":"Fragment","attribs":[],"children":[{"name":"div","attribs":{"style":{"display":"flex","justifyContent":"center"}},"children":[{"name":"img","attribs":{"src":"https://a.espncdn.com/i/teamlogos/nfl/500/sf.png","align":"center","height":24,"width":24},"children":[]}]}]},{"name":"Fragment","attribs":[],"children":[{"name":"div","attribs":{"style":{"display":"flex","justifyContent":"center"}},"children":[{"name":"img","attribs":{"src":"https://a.espncdn.com/i/teamlogos/nfl/500/tb.png","align":"center","height":24,"width":24},"children":[]}]}]},{"name":"Fragment","attribs":[],"children":[{"name":"div","attribs":{"style":{"display":"flex","justifyContent":"center"}},"children":[{"name":"img","attribs":{"src":"https://a.espncdn.com/i/teamlogos/nfl/500/ten.png","align":"center","height":24,"width":24},"children":[]}]}]},{"name":"Fragment","attribs":[],"children":[{"name":"div","attribs":{"style":{"display":"flex","justifyContent":"center"}},"children":[{"name":"img","attribs":{"src":"https://a.espncdn.com/i/teamlogos/nfl/500/wsh.png","align":"center","height":24,"width":24},"children":[]}]}]}],"width":40,"style":{"position":"sticky","left":0,"background":"#fff","zIndex":1}},{"accessor":"team","name":"Team","type":"character","format":{"cell":{"digits":1},"aggregated":{"digits":1}},"align":"center","width":60,"style":{"position":"sticky","left":40,"background":"#fff","zIndex":1}},{"accessor":"time_avg_lead","name":"Time Average Lead","type":"numeric","format":{"cell":{"digits":1},"aggregated":{"digits":1}},"align":"center"},{"accessor":"time_avg_wins","name":"Expected Wins","type":"numeric","format":{"cell":{"digits":1},"aggregated":{"digits":1}},"align":"center"},{"accessor":"off_yards_per_snap","name":"Yards/Snap","type":"numeric","format":{"cell":{"digits":1},"aggregated":{"digits":1}},"align":"center"},{"accessor":"off_adj_yards_per_snap","name":"Adj Yards/Snap","type":"numeric","format":{"cell":{"digits":1},"aggregated":{"digits":1}},"align":"center"},{"accessor":"def_yards_per_snap","name":"Yards/Snap","type":"numeric","format":{"cell":{"digits":1},"aggregated":{"digits":1}},"align":"center"},{"accessor":"def_adj_yards_per_snap","name":"Adj Yards/Snap","type":"numeric","format":{"cell":{"digits":1},"aggregated":{"digits":1}},"align":"center"},{"accessor":"yards_per_snap_diff","name":"Yards/Snap Diff","type":"numeric","format":{"cell":{"digits":2},"aggregated":{"digits":2}},"align":"center"},{"accessor":"adj_yards_per_snap_diff","name":"Adj Yards/Snap Diff","type":"numeric","format":{"cell":{"digits":2},"aggregated":{"digits":2}},"align":"center"}],"columnGroups":[{"name":"Time Average Stats","columns":["time_avg_lead","time_avg_wins"]},{"name":"Offense","columns":["off_yards_per_snap","off_adj_yards_per_snap"]},{"name":"Defense","columns":["def_yards_per_snap","def_adj_yards_per_snap"]},{"name":"Differential","columns":["yards_per_snap_diff","adj_yards_per_snap_diff"]}],"defaultSortDesc":true,"defaultSorted":[{"id":"time_avg_lead","desc":true}],"pagination":false,"defaultPageSize":10,"paginationType":"numbers","showPageInfo":true,"minRows":1,"highlight":true,"bordered":true,"height":"675px","theme":{"color":"#878e94","backgroundColor":"#ffffff","borderWidth":"0px","stripedColor":"#f9f9fb","highlightColor":"#f1f3f4","cellPadding":4,"tableStyle":{"fontSize":16},"headerStyle":{"borderWidth":"1px","padding":"7px","borderTop":"1px solid #595d63","backgroundColor":"#595d63","textTransform":"uppercase","borderColor":"#595d63","color":"#ffffff","transitionDuration":"0.1s","&:hover[aria-sort]":{"backgroundColor":"#4d5056","color":"#ffffff"},"&[aria-sort='ascending']":{"backgroundColor":"#393c40","color":"#ffffff","boxShadow":"inset 0 3px 0 0 #ffffff"},"&[aria-sort='descending']":{"backgroundColor":"#393c40","color":"#ffffff","boxShadow":"inset 0 -3px 0 0 #ffffff"},"fontSize":12,"fontWeight":"bold"},"groupHeaderStyle":{"&:not(:empty)":{"backgroundColor":"#e4e8ed","textTransform":"uppercase","fontWeight":"bold","color":"#878e94","fontSize":12,"boxShadow":"inset 3px 0 0 0 #ffffff"}},"rowSelectedStyle":{"backgroundColor":"#e4e8ed"},"inputStyle":{"backgroundColor":"#ffffff","color":"#878e94"},"searchInputStyle":{"fontSize":"14px","textTransform":"uppercase","backgroundColor":"#ffffff","color":"#878e94","&:focus":{"color":"#878e94"}},"selectStyle":{"backgroundColor":"#073c57","color":"#ffffff","borderColor":"#ffffff","outlineColor":"#ffffff"},"paginationStyle":{"textTransform":"uppercase","fontSize":"15px"},"pageButtonStyle":{"textTransform":"uppercase","fontSize":"15px","backgroundColor":"#ffffff","color":"#164861","&:hover":{"backgroundColor":"#052c3f","color":"#ffffff"}},"pageButtonHoverStyle":{"backgroundColor":"#052c3f","color":"#ffffff"},"pageButtonActiveStyle":{"backgroundColor":"#073c57","color":"#ffffff"},"pageButtonCurrentStyle":{"backgroundColor":"#073c57","color":"#ffffff"}},"dataKey":"3462a34e6ffe3e2b94ed6c7337adb60b"},"children":[]},"class":"reactR_markup"},"evals":[],"jsHooks":[]}</script>
 </div>
 <h3 id="glossary">Glossary</h3>
 <p>Description of Metrics:</p>
